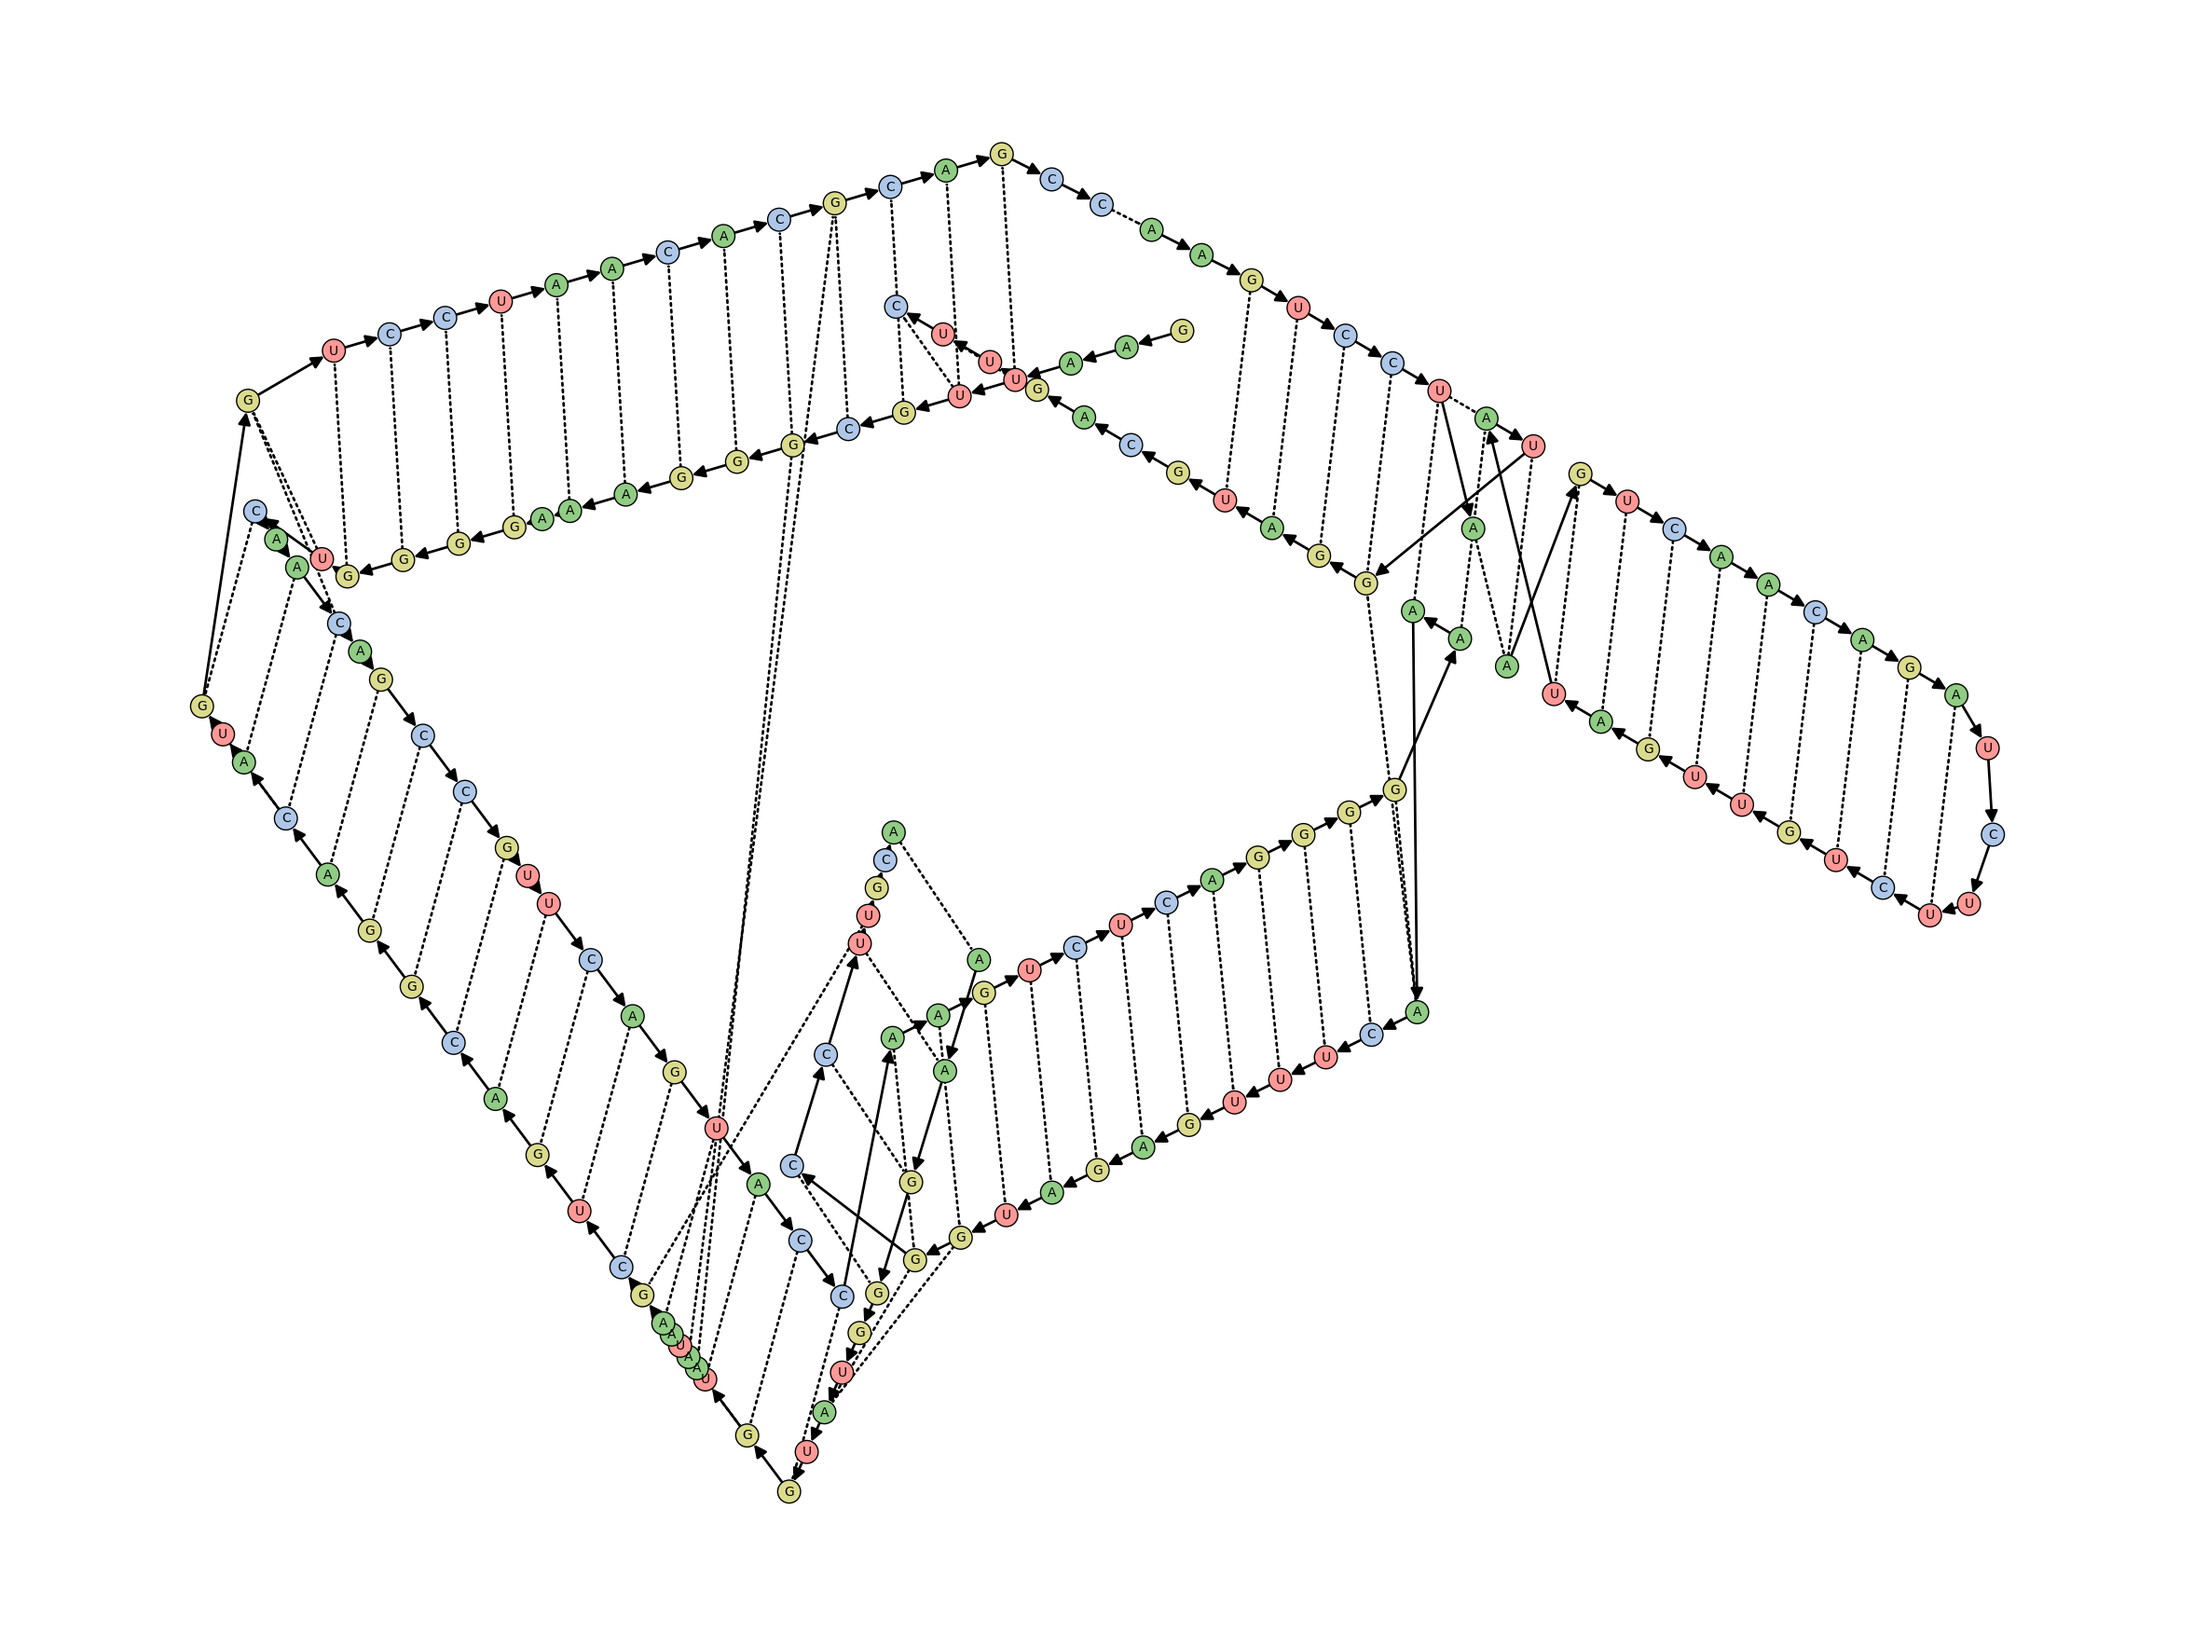
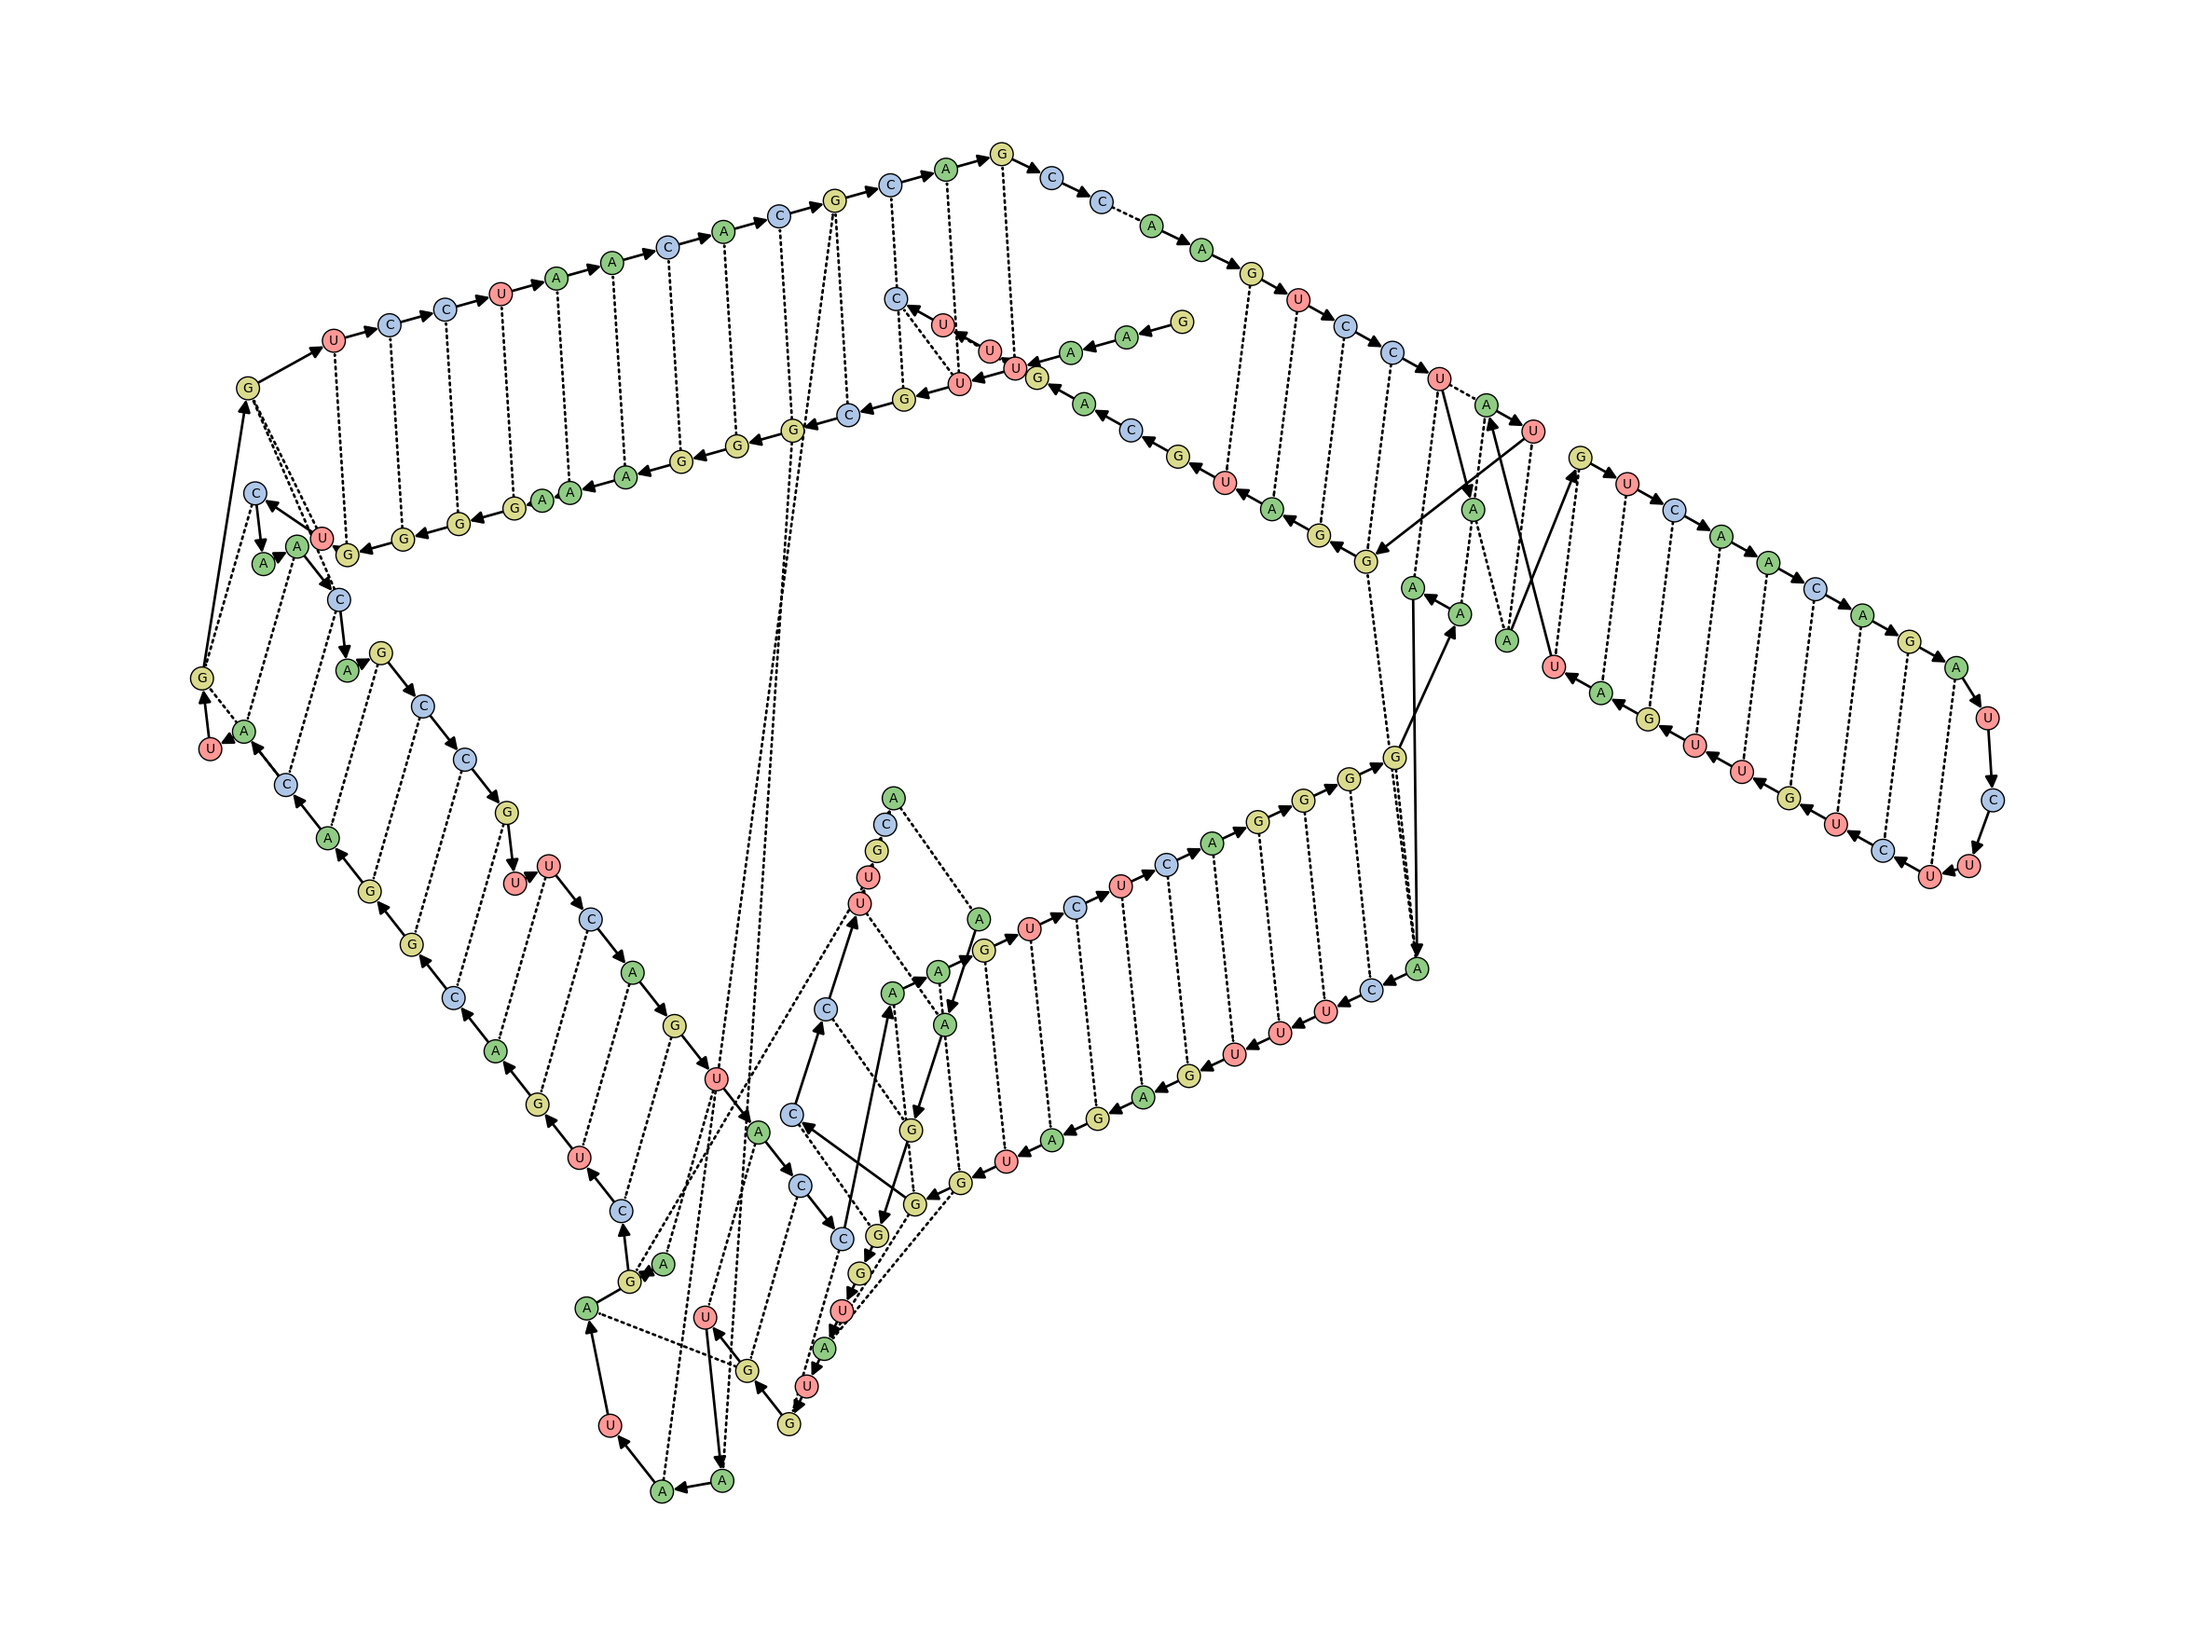
add bulges for congested places

diff --git a/rnaview.py b/rnaview.py
@@ -97,7 +97,7 @@ def generate_coords(helix_coords, helix_ids, dic, helix_dssrids):
         v = helix_coords[start] - helix_coords[end]
         if (helix_dssrids[start], helix_dssrids[end]) in pairs or (helix_dssrids[end], helix_dssrids[start]) in pairs:
             t_poses = updateLoopPoints(start_pos, end_pos, val, helix_coords)
-        elif np.linalg.norm(v) < 2: #threshold for bulging
+        elif np.linalg.norm(v) < 3: #threshold for bulging
             t_poses = updateLoopPoints(start_pos, end_pos, val, helix_coords, factor=True) 
         #else:
         #    t_poses = updateLoopPoints(start_pos, end_pos, val, helix_coords) 
